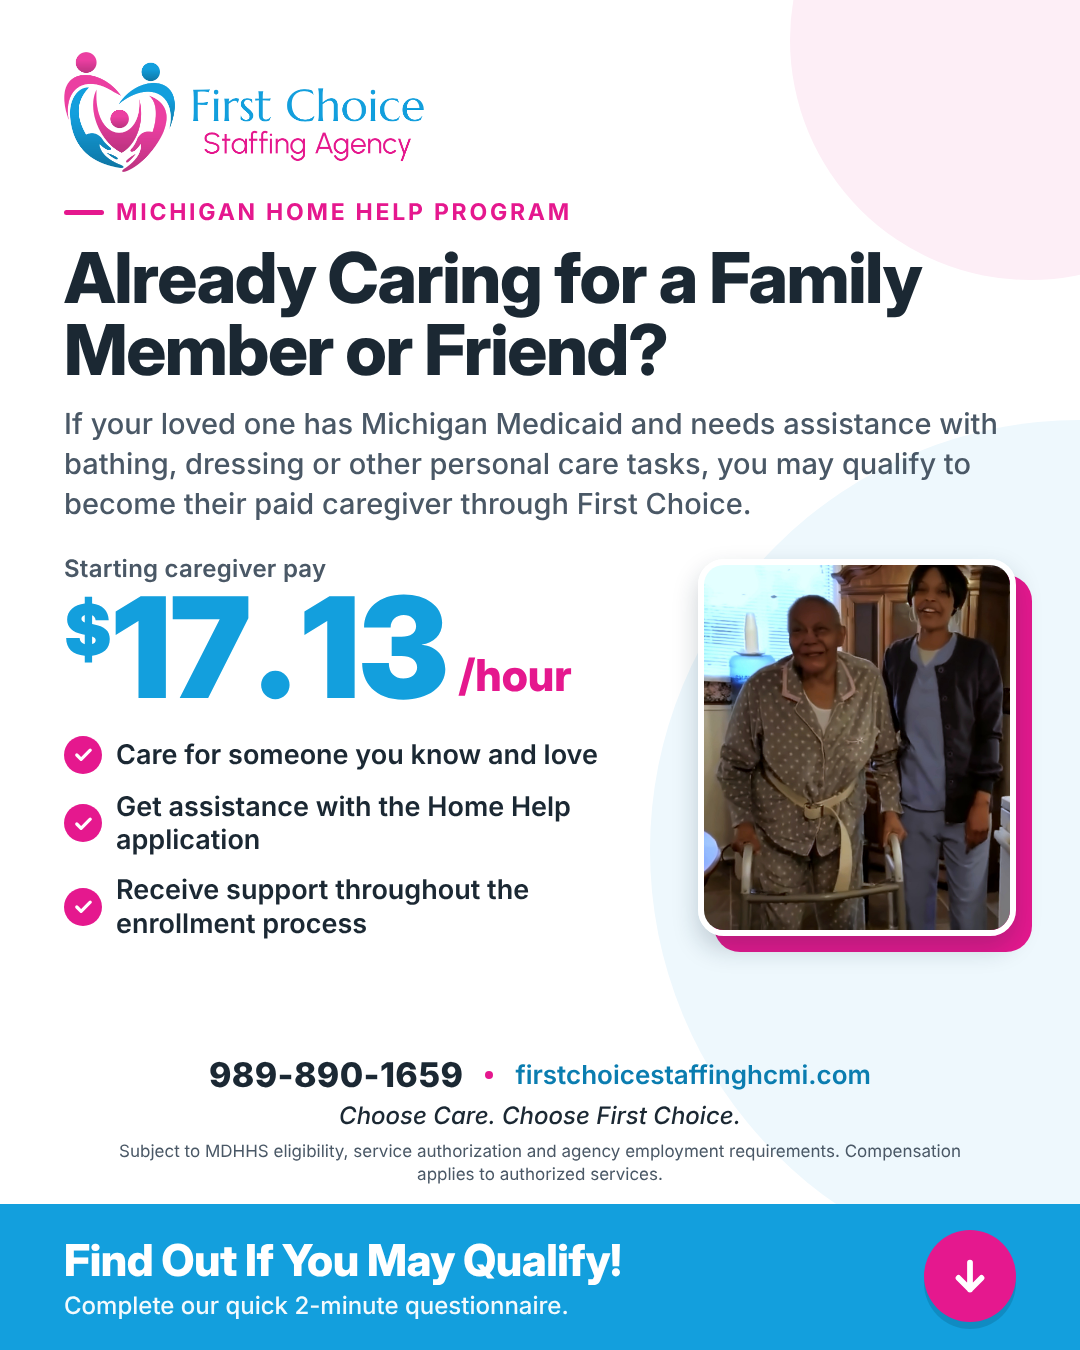
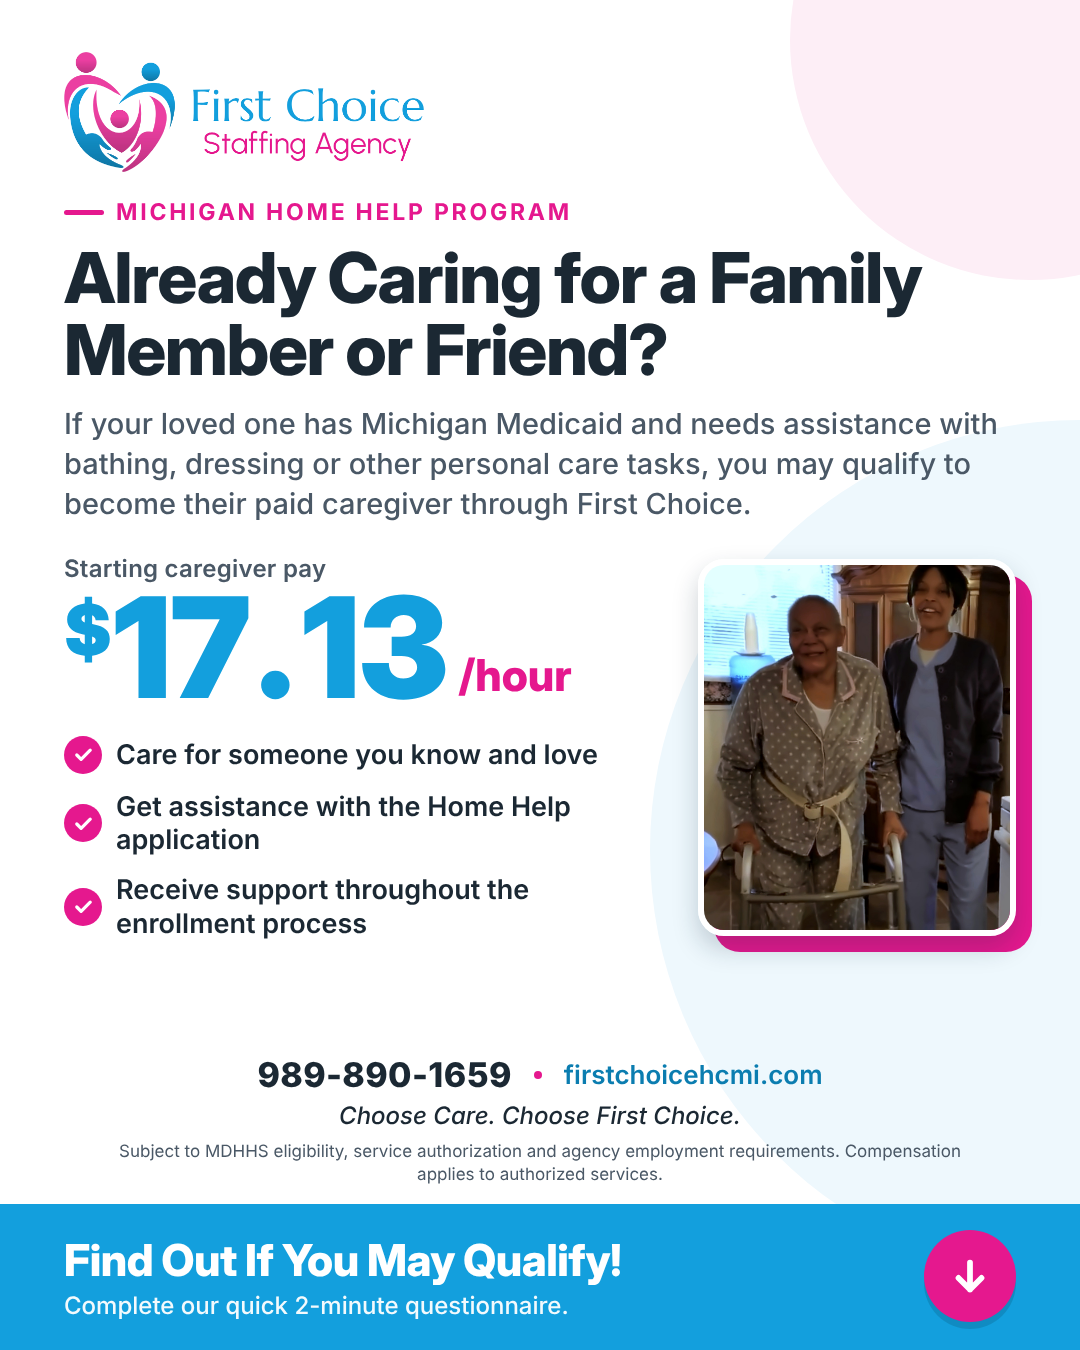
Correct website address to firstchoicehcmi.com in ads, guide, and checklist
Claude-Session: https://claude.ai/code/session_01EcXwQxA6uLpaQryB1LdpUD

Changed region(s): [[0.1833, 0.7778, 0.7944, 0.8089]]

diff --git a/FirstChoice_Caregiver_Ad/build/ad_v4.html b/FirstChoice_Caregiver_Ad/build/ad_v4.html
@@ -97,7 +97,7 @@
       <div class="photo"><img src="photo_side.jpg" alt="Caregiver with client at home"></div>
     </div>
     <div class="contact">
-      <div class="row"><span class="phone">989-890-1659</span><span class="sep"></span><span class="site">firstchoicestaffinghcmi.com</span></div>
+      <div class="row"><span class="phone">989-890-1659</span><span class="sep"></span><span class="site">firstchoicehcmi.com</span></div>
       <div class="tag">Choose Care. Choose First Choice.</div>
       <div class="legal">Subject to MDHHS eligibility, service authorization and agency employment requirements. Compensation applies to authorized services.</div>
     </div>

diff --git a/FirstChoice_Caregiver_Ad/Tally_Setup_Checklist.html b/FirstChoice_Caregiver_Ad/Tally_Setup_Checklist.html
@@ -224,7 +224,7 @@
       </ul>
       <div class="paste">
         <div class="paste-top"><span class="paste-label">Thank-you message</span><button type="button" class="copy">Copy</button></div>
-        <p class="paste-text">Thank you! We received your information. A member of the First Choice Staffing Agency team will contact you within 1 business day. Questions? Visit firstchoicestaffinghcmi.com.</p>
+        <p class="paste-text">Thank you! We received your information. A member of the First Choice Staffing Agency team will contact you within 1 business day. Questions? Visit firstchoicehcmi.com.</p>
       </div>
     </section>
 

diff --git a/FirstChoice_Caregiver_Ad/build/ad.html b/FirstChoice_Caregiver_Ad/build/ad.html
@@ -98,7 +98,7 @@
   </div>
   <div class="band">
     <div>
-      <div class="site">firstchoicestaffinghcmi.com</div>
+      <div class="site">firstchoicehcmi.com</div>
       <div class="note">Eligibility requirements apply.</div>
     </div>
     <div class="btn">Apply Now <svg viewBox="0 0 24 24" fill="none" stroke="#fff" stroke-width="3" stroke-linecap="round" stroke-linejoin="round"><path d="M5 12h14M13 6l6 6-6 6"/></svg></div>

diff --git a/FirstChoice_Caregiver_Ad/build/ad_v3.html b/FirstChoice_Caregiver_Ad/build/ad_v3.html
@@ -89,7 +89,7 @@
   </div>
   <div class="band">
     <div>
-      <div class="site">firstchoicestaffinghcmi.com</div>
+      <div class="site">firstchoicehcmi.com</div>
       <div class="note">Eligibility requirements apply.</div>
     </div>
     <div class="btn">Apply Now <svg viewBox="0 0 24 24" fill="none" stroke="#fff" stroke-width="3" stroke-linecap="round" stroke-linejoin="round"><path d="M5 12h14M13 6l6 6-6 6"/></svg></div>

diff --git a/FirstChoice_Caregiver_Ad/Caption_and_Form_Questions.md b/FirstChoice_Caregiver_Ad/Caption_and_Form_Questions.md
@@ -48,7 +48,7 @@ Add your logo at the top, and set the button and accent color to blue **#139FDD*
 | 11 | Consent | Checkbox | "I agree that First Choice Staffing Agency may contact me by phone, text, or email about this opportunity. Message and data rates may apply. I can opt out at any time." | Yes |
 
 **Thank-you page:**
-> Thank you! We received your information. A member of the First Choice Staffing Agency team will contact you within 1 business day. Questions? Visit firstchoicestaffinghcmi.com.
+> Thank you! We received your information. A member of the First Choice Staffing Agency team will contact you within 1 business day. Questions? Visit firstchoicehcmi.com.
 
 ### Why questions 3 and 4 are there
 

diff --git a/FirstChoice_Caregiver_Ad/Tally_Setup_Guide.md b/FirstChoice_Caregiver_Ad/Tally_Setup_Guide.md
@@ -48,7 +48,7 @@ Tally works like a typed document. Press **Enter** for a new line, then type **/
 ## Step 4: Add the thank-you page
 1. At the very end of the form, type **/** and choose **Thank you page**.
 2. Type:
-   > Thank you! We received your information. A member of the First Choice Staffing Agency team will contact you within 1 business day. Questions? Visit firstchoicestaffinghcmi.com.
+   > Thank you! We received your information. A member of the First Choice Staffing Agency team will contact you within 1 business day. Questions? Visit firstchoicehcmi.com.
 
 ## Step 5: Turn on email notifications
 1. Open your form's **Settings**.
